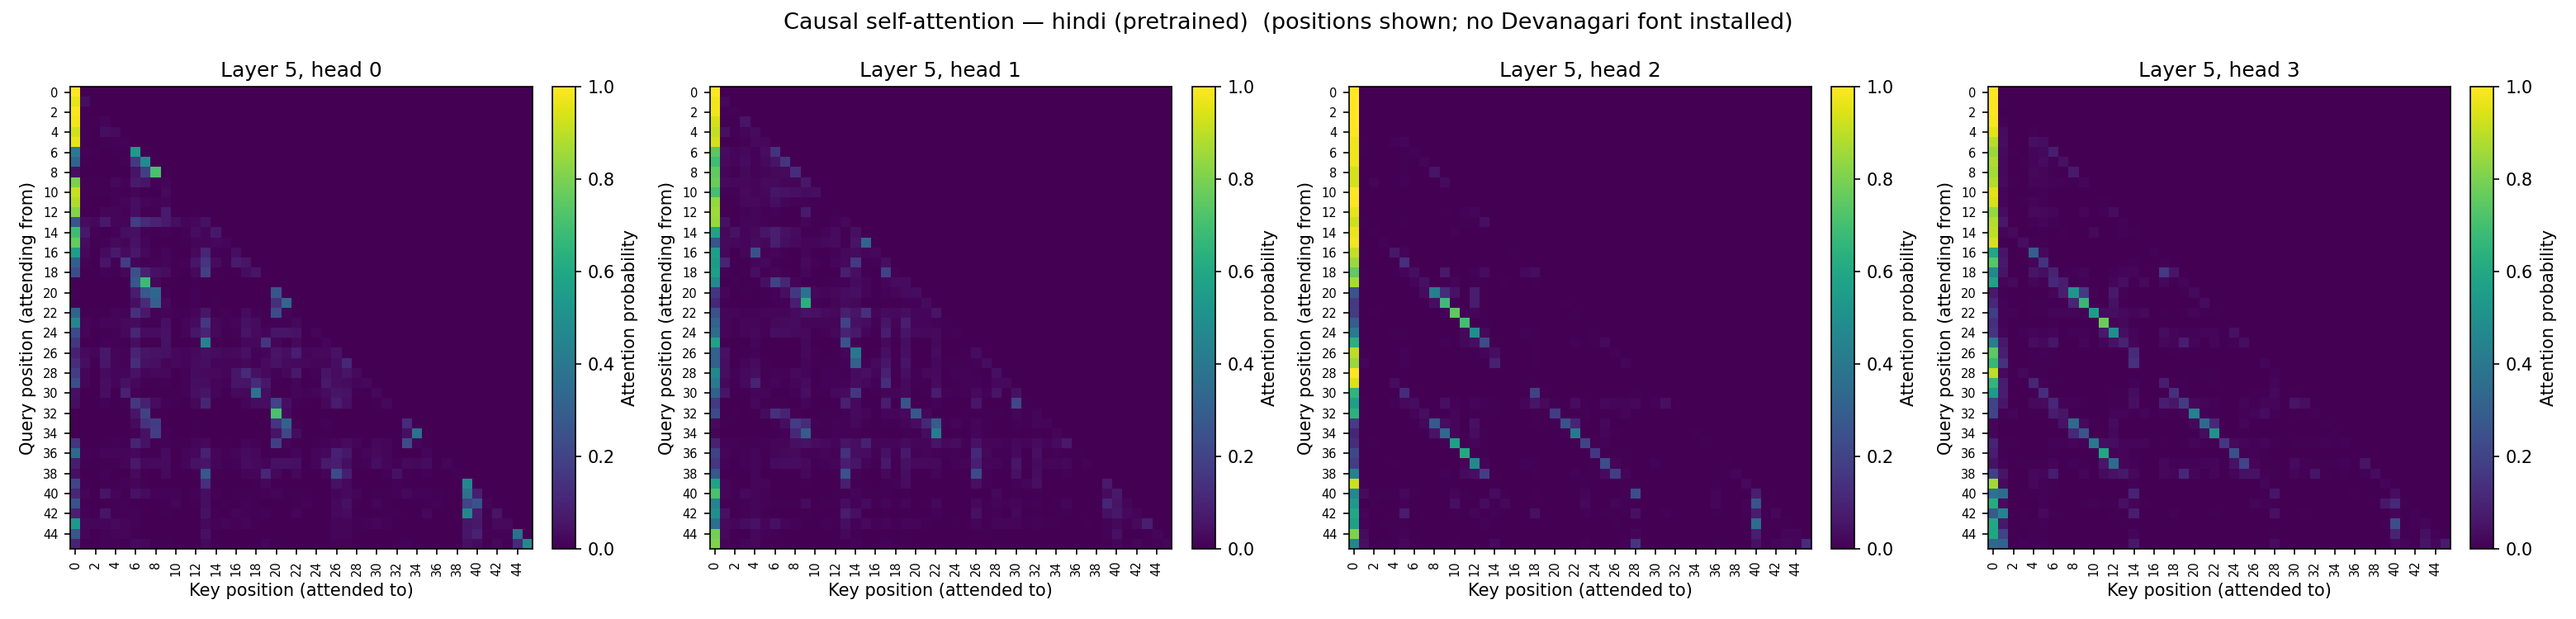
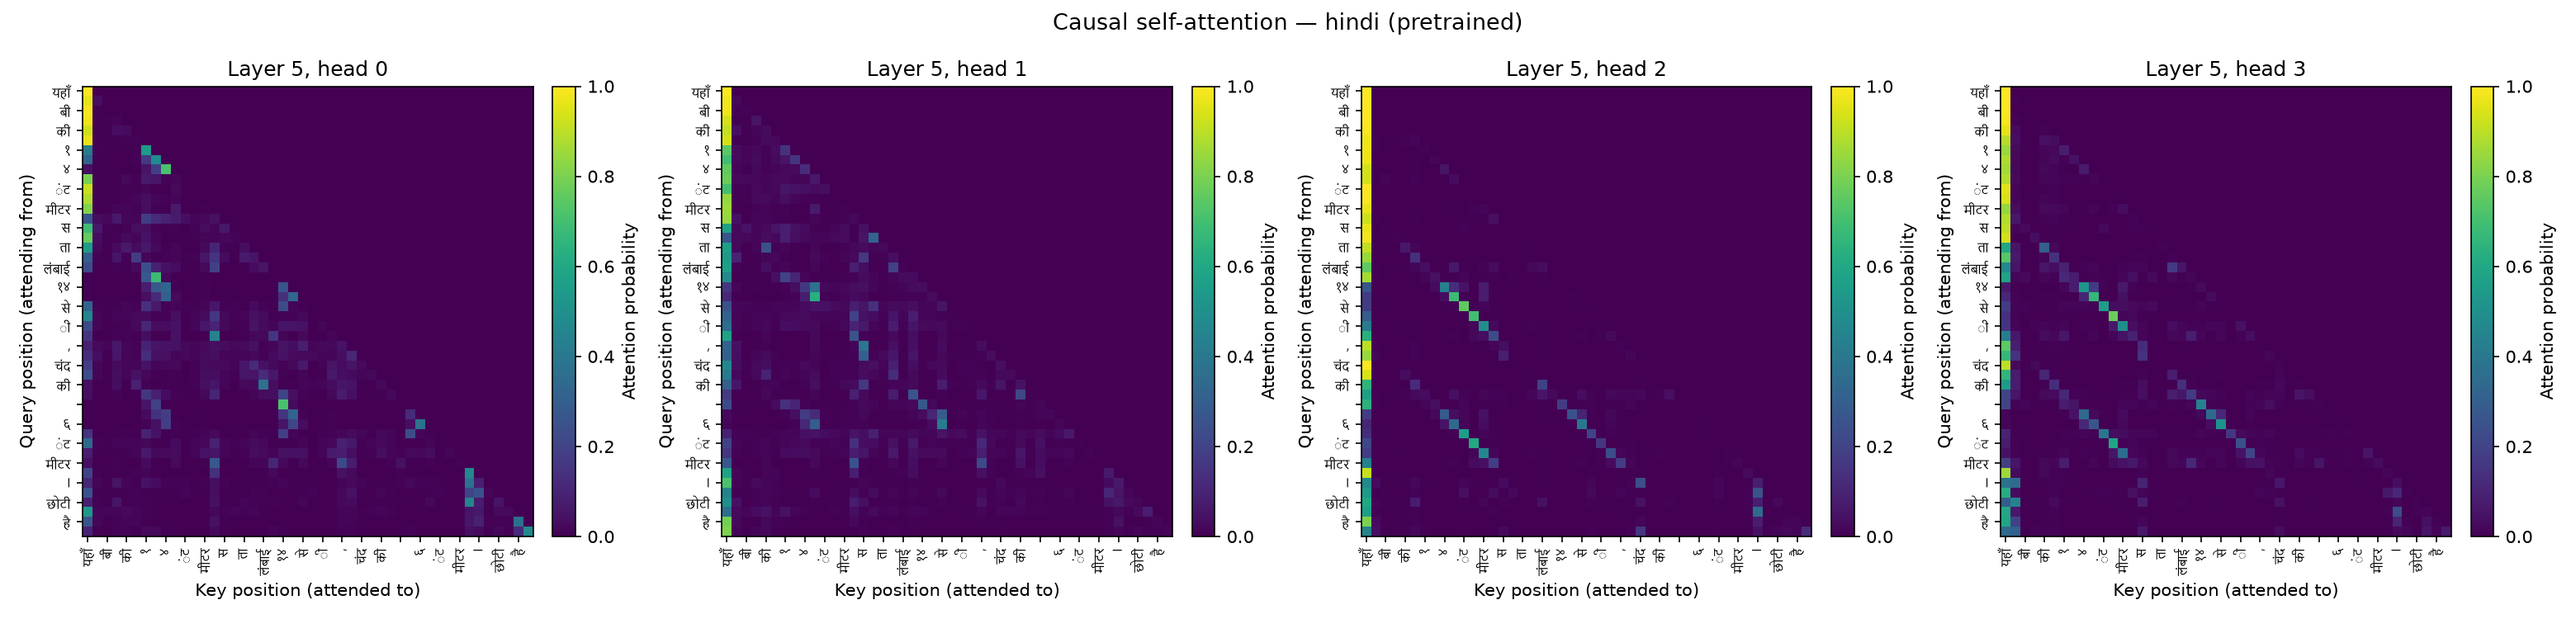
redraw the attention figures with devanagari labels

diff --git a/scripts/make_phase3_figures.py b/scripts/make_phase3_figures.py
@@ -1,0 +1,103 @@
+"""Regenerate every Phase 3 attention figure locally, with Devanagari labels.
+
+The Kaggle kernels produced these figures with numeric tick labels, because no
+Devanagari font is installed in the Kaggle image and the apt package the
+notebook tried to install does not exist. A heatmap whose axes read
+"0, 2, 4, ..." is far less useful than one whose axes read the actual tokens of
+the reasoning question, and the spec's attention section is explicitly about
+being able to say *which* tokens a head attends to.
+
+This machine has Nirmala UI, so the figures are redrawn here from the same
+checkpoints and the same prompts. Nothing else changes: the attention values,
+entropies and distances are recomputed by the same code and should match the
+committed JSON exactly.
+
+Usage
+-----
+    python scripts/make_phase3_figures.py \\
+        --hindi-pretrained  <path/to/hindi/ckpt_best.pt> \\
+        --hindi-finetuned   <path/to/hindi_reasoning/ckpt_best.pt> \\
+        --nepali-pretrained <path/to/nepali/ckpt_best.pt> \\
+        --nepali-finetuned  <path/to/nepali_reasoning/ckpt_best.pt>
+"""
+
+from __future__ import annotations
+
+import argparse
+import importlib
+import json
+import sys
+from pathlib import Path
+
+REPO_ROOT = Path(__file__).resolve().parents[1]
+sys.path.insert(0, str(REPO_ROOT))
+
+if hasattr(sys.stdout, "reconfigure"):
+    sys.stdout.reconfigure(encoding="utf-8", errors="replace")
+
+REPORT_DIR = REPO_ROOT / "report/phase3"
+FIG_DIR = REPORT_DIR / "figures"
+
+LANGS = ("hindi", "nepali")
+
+
+def regenerate(lang: str, pretrained: Path, finetuned: Path) -> dict:
+    """Redraw one language's attention figures and recompute its summary.
+
+    Args:
+        lang: Language name.
+        pretrained: Path to the Phase 2 checkpoint.
+        finetuned: Path to the Phase 3 checkpoint.
+
+    Returns:
+        The comparison report.
+
+    Raises:
+        FileNotFoundError: If either checkpoint is missing.
+    """
+    for path in (pretrained, finetuned):
+        if not path.is_file():
+            raise FileNotFoundError(f"[{lang}] checkpoint not found: {path}")
+    compare = importlib.import_module(f"{lang}.reasoning.attention_compare")
+    return compare.compare(
+        pretrained, finetuned, split="test", batch_size=16,
+        device="cpu", fig_dir=FIG_DIR,
+    )
+
+
+def main() -> None:
+    """Regenerate both models' Phase 3 attention figures."""
+    parser = argparse.ArgumentParser(description=__doc__)
+    for lang in LANGS:
+        parser.add_argument(f"--{lang}-pretrained", required=True)
+        parser.add_argument(f"--{lang}-finetuned", required=True)
+    args = parser.parse_args()
+
+    FIG_DIR.mkdir(parents=True, exist_ok=True)
+    viz = importlib.import_module("hindi.eval.viz")
+    font = viz.find_devanagari_font()
+    print("Devanagari font:", font)
+    if font is None:
+        print("  WARNING: no Devanagari font found; labels will be positions "
+              "again, which is the thing this script exists to fix")
+
+    for lang in LANGS:
+        print(f"[{lang}]")
+        report = regenerate(
+            lang,
+            Path(getattr(args, f"{lang}_pretrained")),
+            Path(getattr(args, f"{lang}_finetuned")),
+        )
+        out = REPORT_DIR / f"{lang}_attention_comparison.json"
+        out.write_text(json.dumps(report, indent=2, ensure_ascii=False),
+                       encoding="utf-8")
+        for name, block in report["models"].items():
+            print(f"  {name:11s} mean entropy {block['mean_entropy']:.4f}   "
+                  f"mean distance {block['mean_distance']:.3f}")
+        print(f"  prompt: {report['example_prompts'][0]}")
+        print(f"  wrote {out.relative_to(REPO_ROOT)} and "
+              f"{len(report['figures'])} figures")
+
+
+if __name__ == "__main__":
+    main()
